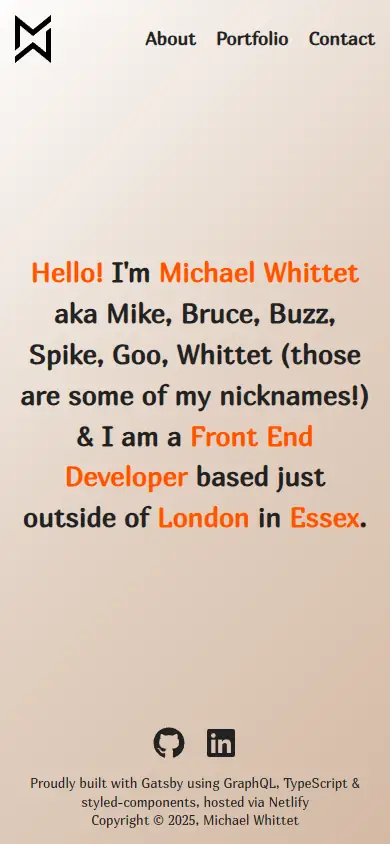
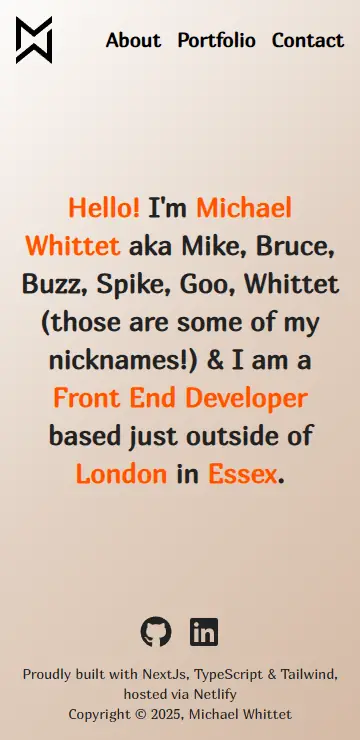
Tweak mobile styling, update manifest screenshot imagery

diff --git a/app/ui/card.tsx b/app/ui/card.tsx
@@ -7,12 +7,12 @@ export default function Card({ href, name, src }: Card) {
     <>
       <Image
         alt=""
-        className="transform-[rotate(15deg)_scale(1.4)] duration-400 ease-in-out"
+        className="md:transform-[rotate(15deg)_scale(1.4)] duration-400 ease-in-out"
         src={src}
         height={340}
         width={800}
       />
-      <span className="block text-2xl mt-2.5 opacity-0 group-hover:opacity-100">
+      <span className="block text-2xl mt-2.5 md:opacity-0 group-hover:opacity-100">
         {name}
       </span>
     </>
@@ -24,7 +24,7 @@ export default function Card({ href, name, src }: Card) {
     <div className={cardStyling}>{cardContent}</div>
   ) : (
     <Link
-      className={`transition-[color] delay-300 duration-300 ease-out hover:text-international-orange motion-reduce:transition-none ${cardStyling}`}
+      className={`transition-[color] delay-300 duration-300 ease-out md:hover:text-international-orange motion-reduce:transition-none ${cardStyling}`}
       href={href}
     >
       {cardContent}

diff --git a/app/ui/contactForm.tsx b/app/ui/contactForm.tsx
@@ -39,7 +39,7 @@ export default function ContactForm() {
       className="flex flex-col mb-7 items-center"
       onSubmit={handleSubmit(onSubmit)}
     >
-      <label className="block mb-4 font-bold w-lg">
+      <label className="block mb-4 font-bold w-full sm:w-lg">
         Name:
         <input
           aria-describedby="name-error"
@@ -56,7 +56,7 @@ export default function ContactForm() {
           </p>
         )}
       </label>
-      <label className="block mb-4 font-bold w-lg">
+      <label className="block mb-4 font-bold w-full sm:w-lg">
         Email address:
         <input
           aria-describedby="email-error"
@@ -73,7 +73,7 @@ export default function ContactForm() {
           </p>
         )}
       </label>
-      <label className="block mb-4 font-bold w-lg">
+      <label className="block mb-4 font-bold w-full sm:w-lg">
         Message:
         <textarea
           aria-describedby="message-error"

diff --git a/app/ui/header.tsx b/app/ui/header.tsx
@@ -8,7 +8,7 @@ export default function Header() {
   const pathname = usePathname();
 
   return (
-    <div className="pt-4 pr-12 pb-4 pl-12 flex justify-between items-center">
+    <div className="p-4 md:pr-12 md:pl-12 flex justify-between items-center">
       <Link
         className="block transition-[fill] delay-300 duration-300 ease-out hover:fill-international-orange motion-reduce:transition-none"
         href="/"
@@ -31,7 +31,7 @@ export default function Header() {
 
           return (
             <Link
-              className="group mr-4 last:mr-0 text-2xl font-bold"
+              className="group mr-4 last:mr-0 text-xl md:text-2xl font-bold"
               href={href}
               key={index}
             >

diff --git a/app/portfolio/page.tsx b/app/portfolio/page.tsx
@@ -23,12 +23,12 @@ export default function Portfolio() {
         when I can too, here are a few examples:
       </p>
       <h2>Personal projects:</h2>
-      <div className="grid gap-7 grid-cols-[1fr_1fr] mb-7">
+      <div className="grid gap-7 md:grid-cols-[1fr_1fr] mb-7">
         {portfolioCards(0, 2)}
       </div>
 
       <h2>Professional experience:</h2>
-      <div className="grid gap-7 grid-cols-[1fr_1fr]">{portfolioCards(2)}</div>
+      <div className="grid gap-7 md:grid-cols-[1fr_1fr]">{portfolioCards(2)}</div>
     </>
   );
 }

diff --git a/app/layout.tsx b/app/layout.tsx
@@ -30,7 +30,7 @@ export default function RootLayout({
       <body className={`${marmelad.className} antialiased`}>
         <div className="flex flex-col min-h-screen">
           <Header />
-          <main className="mt-7 mr-auto mb-7 ml-auto lg:w-4/5 xl:w-3/5 text-lg flex flex-col flex-[1_1_0%]">
+          <main className="p-4 mr-auto ml-auto lg:w-4/5 xl:w-3/5 text-lg flex flex-col flex-[1_1_0%]">
             {children}
           </main>
           <Footer />

diff --git a/app/globals.css b/app/globals.css
@@ -23,7 +23,7 @@ body {
 }
 
 h1 {
-  font-size: clamp(1.5rem, 2.5vw, 2rem);
+  font-size: clamp(1.7rem, 2.5vw, 2rem);
   font-weight: bold;
   line-height: 1.4;
   margin-bottom: 30px;
@@ -32,9 +32,9 @@ h1 {
 }
 
 h2 {
-  font-size: clamp(1.2rem, 2.5vw, 1.5rem);
+  font-size: clamp(1.4rem, 2.5vw, 1.5rem);
   font-weight: bold;
-  margin: 0 0 30px;
+  margin: 0 0 15px;
 }
 
 p {

diff --git a/README.md b/README.md
@@ -15,7 +15,3 @@
 <p align="center">
   <img alt="TypeScript" src="https://img.shields.io/npm/types/typescript" />
 </p>
-
-## TODO
-
-- [ ] Update manifest.json screenshots once all styling has been finalised
